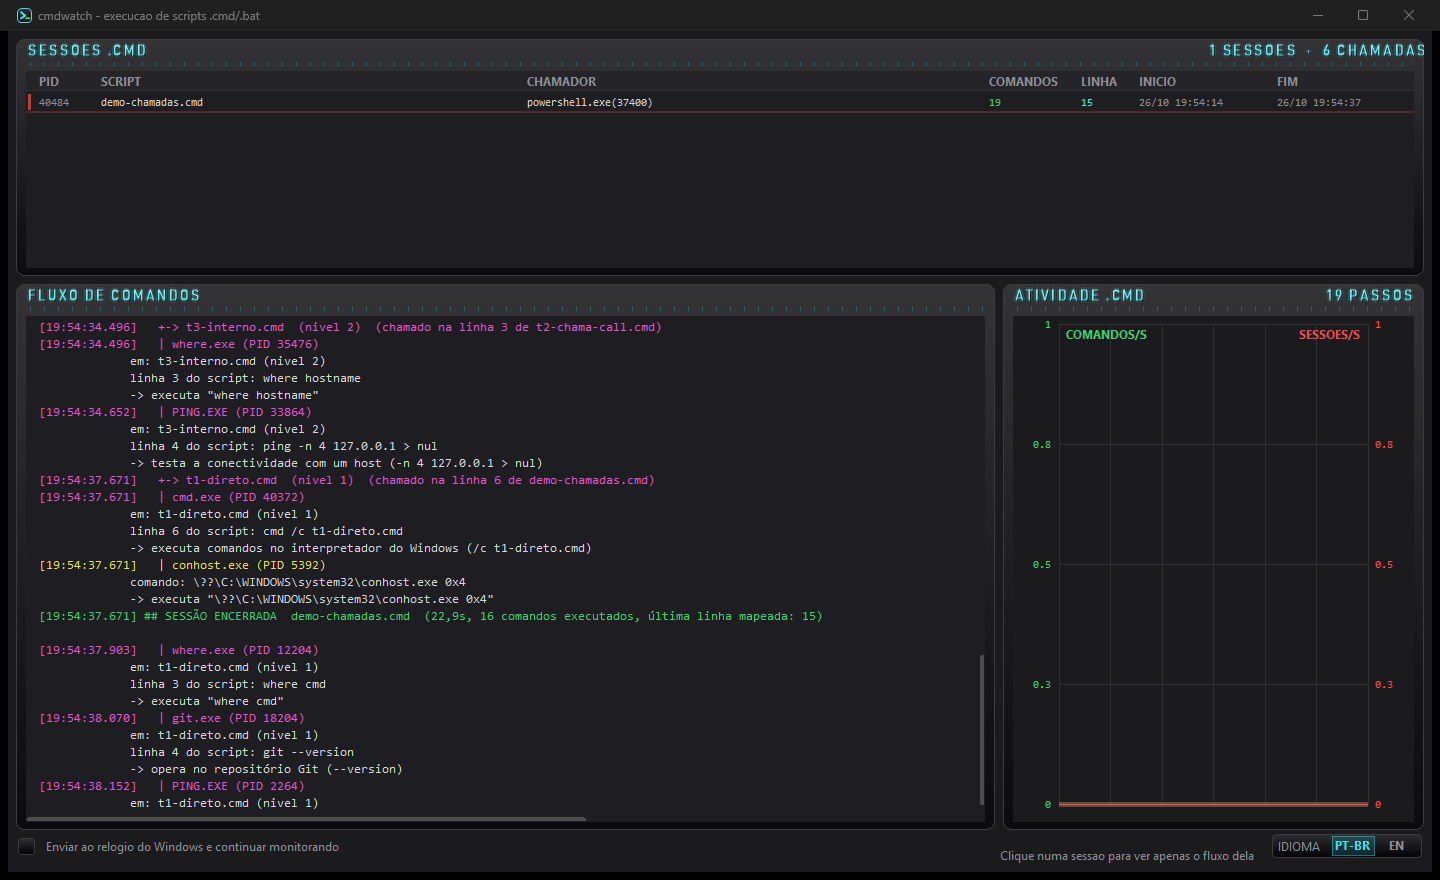
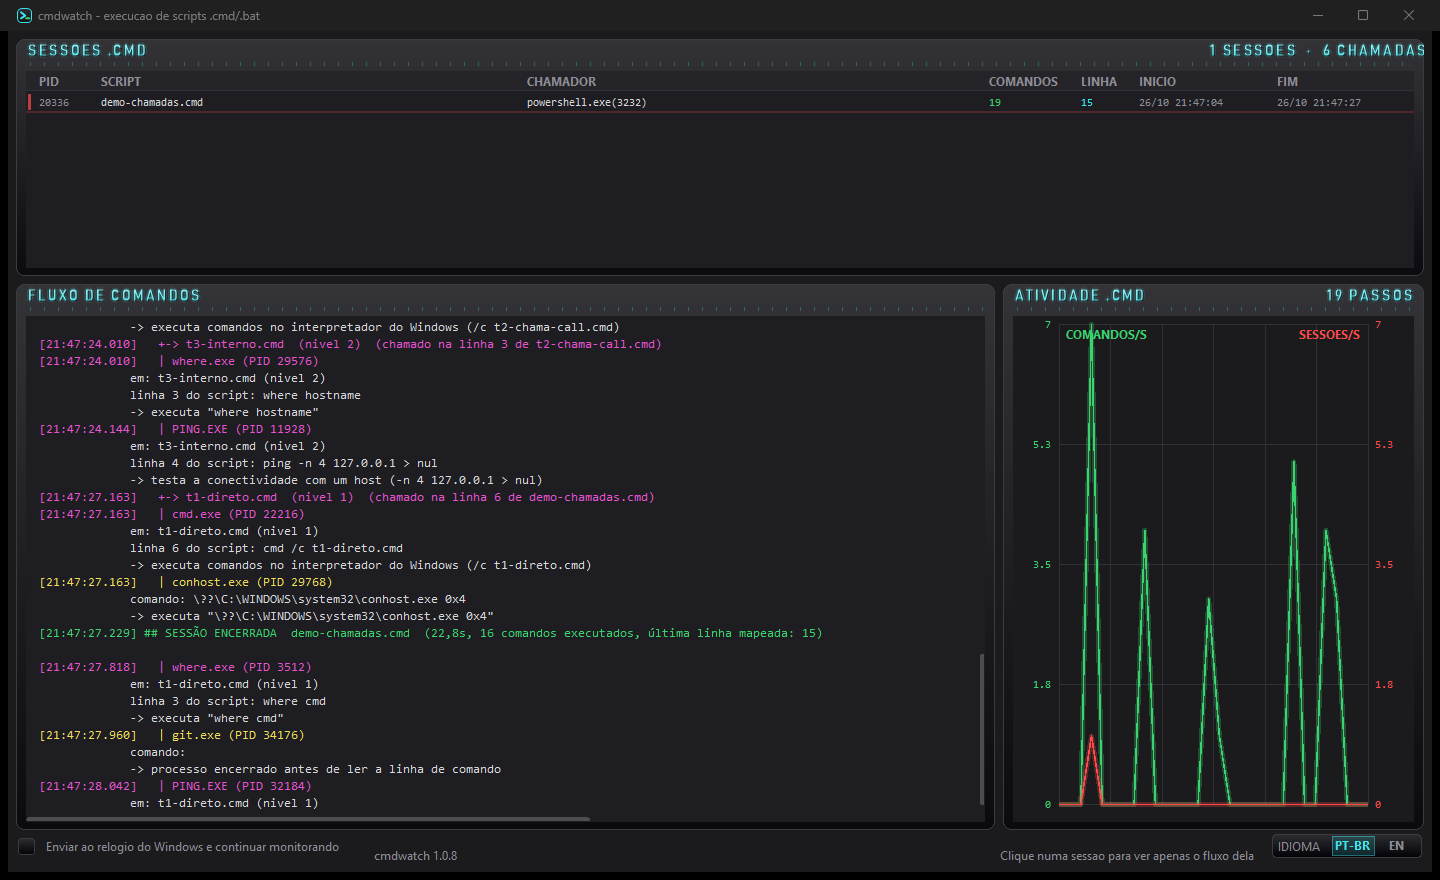
mostra a versao do cmdwatch no rodape do painel
O painel agora exibe 'cmdwatch <versao>' no canto inferior direito, ao lado do
checkbox da bandeja e do seletor de idioma.

- DrawVersion() desenha a versao no OnPaint do form;
- o checkbox do rodape passa a ter a largura medida pelo texto (elimina a faixa
  vazia e impede que o fundo do controle tape a versao);
- ApplyLanguage() refaz o layout do rodape, pois o texto do checkbox muda de
  tamanho entre PT-BR e EN;
- README e captura oficial atualizados para a v1.0.8.

diff --git a/src/gui/DashboardForm.cs b/src/gui/DashboardForm.cs
@@ -140,7 +140,7 @@ namespace CmdWatch.Gui
             _pStream.SetBounds(pad, midY, flowW, midH);
             _pActivity.SetBounds(pad + flowW + pad, midY, Math.Max(240, w - pad * 3 - flowW), midH);
 
-            _checkTray.SetBounds(pad + 2, h - pad - HintH + 4, 460, 24);
+            _checkTray.SetBounds(pad + 2, h - pad - HintH + 4, CheckboxWidth(), 24);
             _lang.SetBounds(w - pad - LangW - 2, h - pad - HintH + 4, LangW, 24);
 
             Rectangle sa = _pSessions.PlotArea;
@@ -160,6 +160,8 @@ namespace CmdWatch.Gui
         protected override void OnPaint(PaintEventArgs e)
         {
             e.Graphics.Clear(Theme.Bg);
+
+            DrawVersion(e.Graphics);
 
             string info;
             if (_selectedPid != 0)
@@ -181,6 +183,38 @@ namespace CmdWatch.Gui
 
             TextRenderer.DrawText(e.Graphics, info, Theme.Ui, hint,
                 Theme.Dim, TextFormatFlags.Right | TextFormatFlags.VerticalCenter | TextFormatFlags.NoPrefix);
+        }
+
+        /// <summary>
+        /// Largura do checkbox do rodape: o quadrado (16) + a folga (9) + o texto
+        /// real. Medir o texto evita deixar uma faixa vazia (e, principalmente,
+        /// evita que o fundo do checkbox tape a versao desenhada ao lado).
+        /// </summary>
+        private int CheckboxWidth()
+        {
+            try
+            {
+                int tw = TextRenderer.MeasureText(_checkTray.Label, Theme.Ui).Width;
+                return 16 + 9 + tw + 10;
+            }
+            catch { return 460; }
+        }
+
+        /// <summary>
+        /// Desenha a versao do cmdwatch no rodape, logo depois do checkbox.
+        /// </summary>
+        private void DrawVersion(Graphics g)
+        {
+            try
+            {
+                string ver = "cmdwatch " + Program.Version;
+                int x = (_checkTray != null ? _checkTray.Right : 10) + 18;
+                int y = ClientSize.Height - HintH;
+
+                TextRenderer.DrawText(g, ver, Theme.Ui, new Rectangle(x, y, 220, HintH),
+                    Theme.Dim, TextFormatFlags.Left | TextFormatFlags.VerticalCenter | TextFormatFlags.NoPrefix);
+            }
+            catch { }
         }
 
         // --------------------------------------------------------- motor
@@ -387,6 +421,8 @@ namespace CmdWatch.Gui
             _lang.Invalidate();
             _sessions.Invalidate();
 
+            // o texto do checkbox muda de idioma: refaz o rodape
+            LayoutDashboard();
             RebuildStream();
             ApplyTrayTexts();
             Invalidate();

diff --git a/src/Program.cs b/src/Program.cs
@@ -12,7 +12,7 @@ namespace CmdWatch
 {
     internal static class Program
     {
-        internal const string Version = "1.0.7";
+        internal const string Version = "1.0.8";
         private static ConsoleColor _lastColor = ConsoleColor.Gray;
 
         [STAThread]

diff --git a/README.md b/README.md
@@ -37,13 +37,13 @@ em tempo real:
 Executável pronto para Windows 10/11 — arquivo único, sem DLLs e sem runtime extra
 (precisa apenas do .NET Framework 4.8, já presente no sistema):
 
-**[⬇ cmdwatch v1.0.7 — cmdwatch.exe (501 KB)](https://github.com/dellanio/cmdwatch/releases/latest/download/cmdwatch.exe)**
+**[⬇ cmdwatch v1.0.8 — cmdwatch.exe (502 KB)](https://github.com/dellanio/cmdwatch/releases/latest/download/cmdwatch.exe)**
 
 | | |
 |---|---|
-| Versão | 1.0.7 |
-| Tamanho | 501 KB (513.536 bytes) |
[1 lines of base64/hex data omitted]
+| Versão | 1.0.8 |
+| Tamanho | 502 KB (514.048 bytes) |
[1 lines of base64/hex data omitted]
 | Página da release | [releases/latest](https://github.com/dellanio/cmdwatch/releases/latest) |
 
 Depois de baixar:
@@ -180,6 +180,13 @@ A preferência fica salva em `%APPDATA%\cmdwatch\ui.cfg` e volta no próximo uso
 > O que troca de idioma é a **interface**. As *explicações dos comandos* (`npm ci` →
 > “instala as dependências…”) vêm do dicionário compartilhado com a CLI e continuam em
 > português — são o conteúdo do produto, não o texto da interface.
+
+### Versão no rodapé (v1.0.8)
+
+O canto inferior direito do painel mostra a versão do cmdwatch em uso (`cmdwatch 1.0.8`),
+para dar para conferir de imediato qual build está rodando — útil quando há mais de uma
+cópia do `.exe` em circulação. É a mesma constante usada pela CLI, então o rodapé e a
+saída de `cmdwatch --version` nunca divergem entre si.
 
 ### Ícone do produto
 
